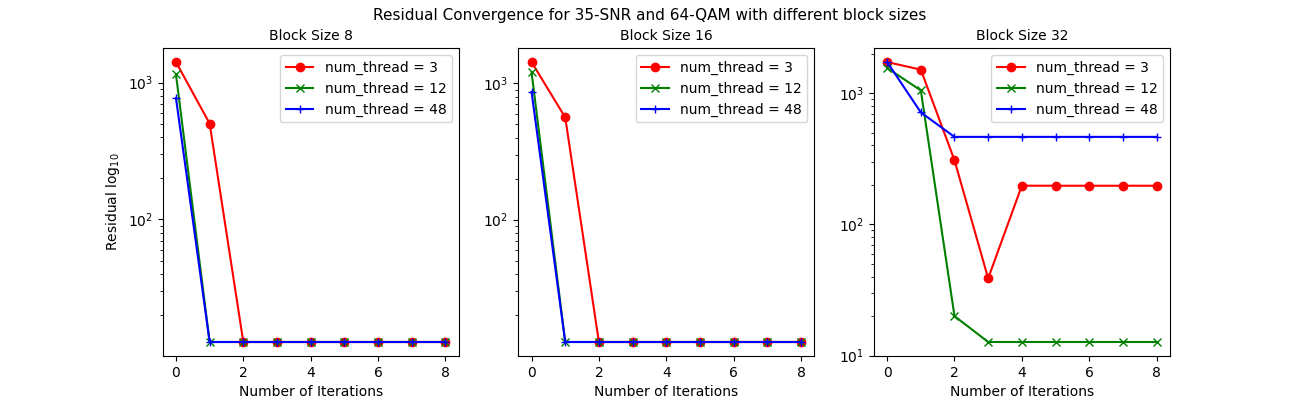
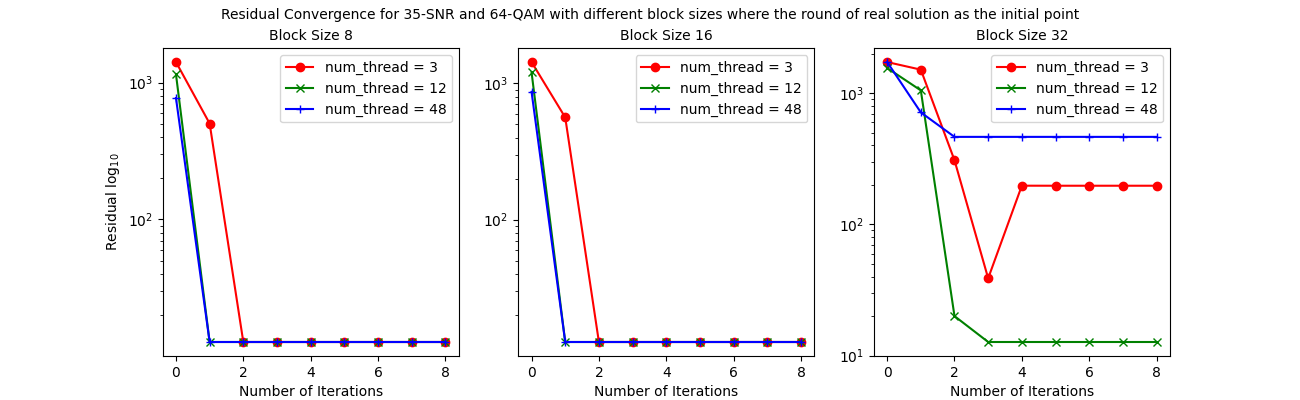
Add results for residual convergence

Changed region(s): [[0.1538, 0.0, 0.8308, 0.06]]

diff --git a/past_results_2020_11_21/plot_helper.py b/past_results_2020_11_21/plot_helper.py
@@ -196,16 +196,17 @@ def plot_res_conv(n):
                     ax3.set_xlabel('Number of Iterations')
                     # ax3.set_ylabel('Residual $\log_{10}$')
                     ax3.set_title('Block Size ' + line_str[0], fontsize=10)
+                    title = 'Residual Convergence for' + SNR + '-SNR and ' \
+                            + str(pow(4, f)) + '-QAM with different block sizes'
 
                     if init_value in '-1':
-                        fig.suptitle('Residual Convergence where the round of real solution as the initial point')
+                        title = title + ' where the round of real solution as the initial point'
                     elif init_value in '0':
-                        fig.suptitle('Residual Convergence where each element in the initial point is 0')
+                        title = title + ' where each element in the initial point is 0'
                     elif init_value in '1':
-                        fig.suptitle('Residual Convergence where each element in the initial point is the rounded mean')
+                        title = title + 'where each element in the initial point is the rounded mean'
 
-                    fig.suptitle('Residual Convergence for' + SNR + '-SNR and ' + str(
-                        pow(4, f)) + '-QAM with different block sizes', fontsize=11)
+                    fig.suptitle(title, fontsize=10)
                     plt.savefig(
                         './' + str(n) + '_res_' + init_value + "_" + SNR + "_" + line_str[0] + '_' + str(pow(4, f)))
                     plt.close()
